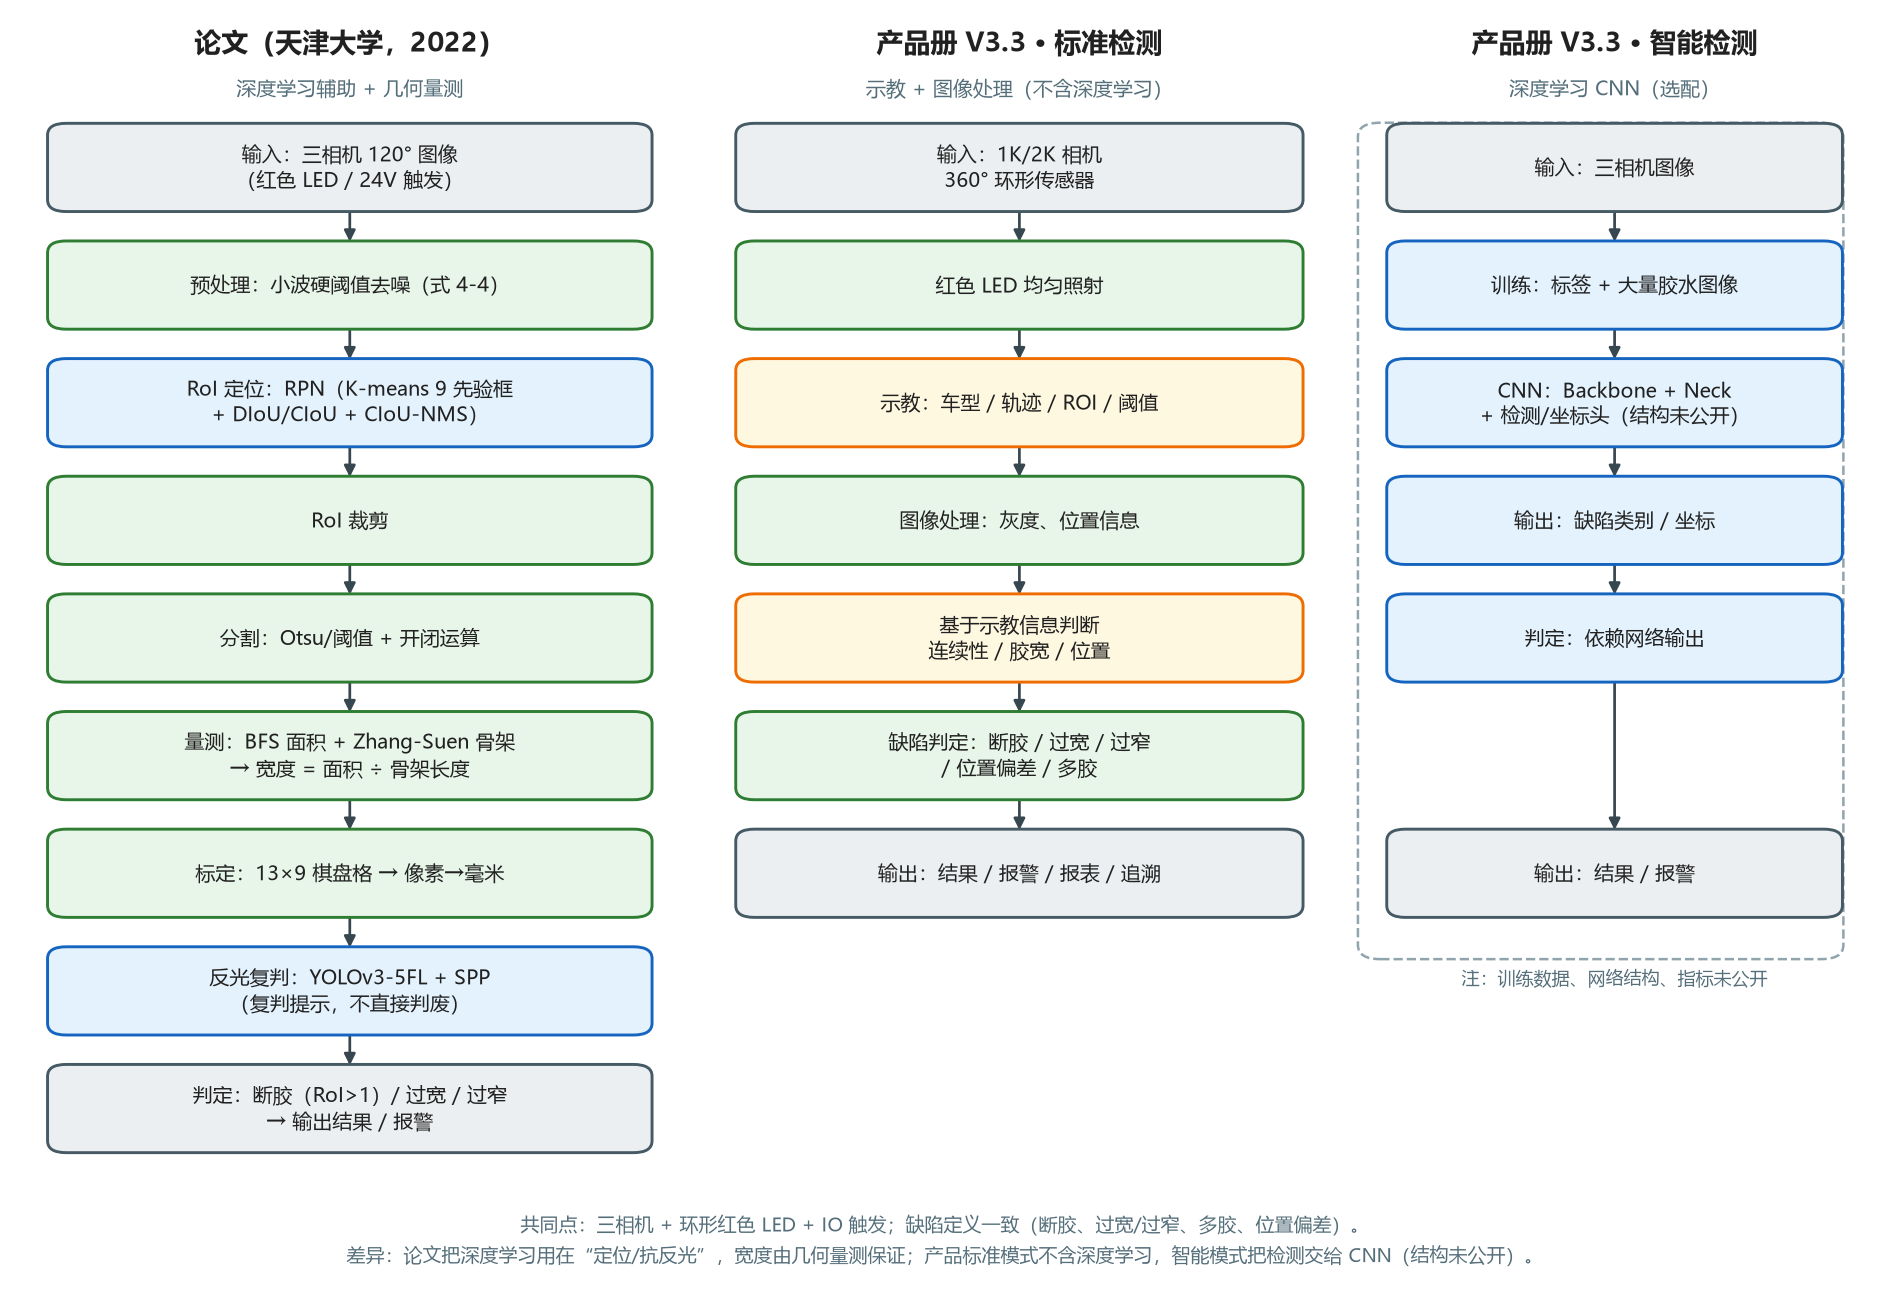
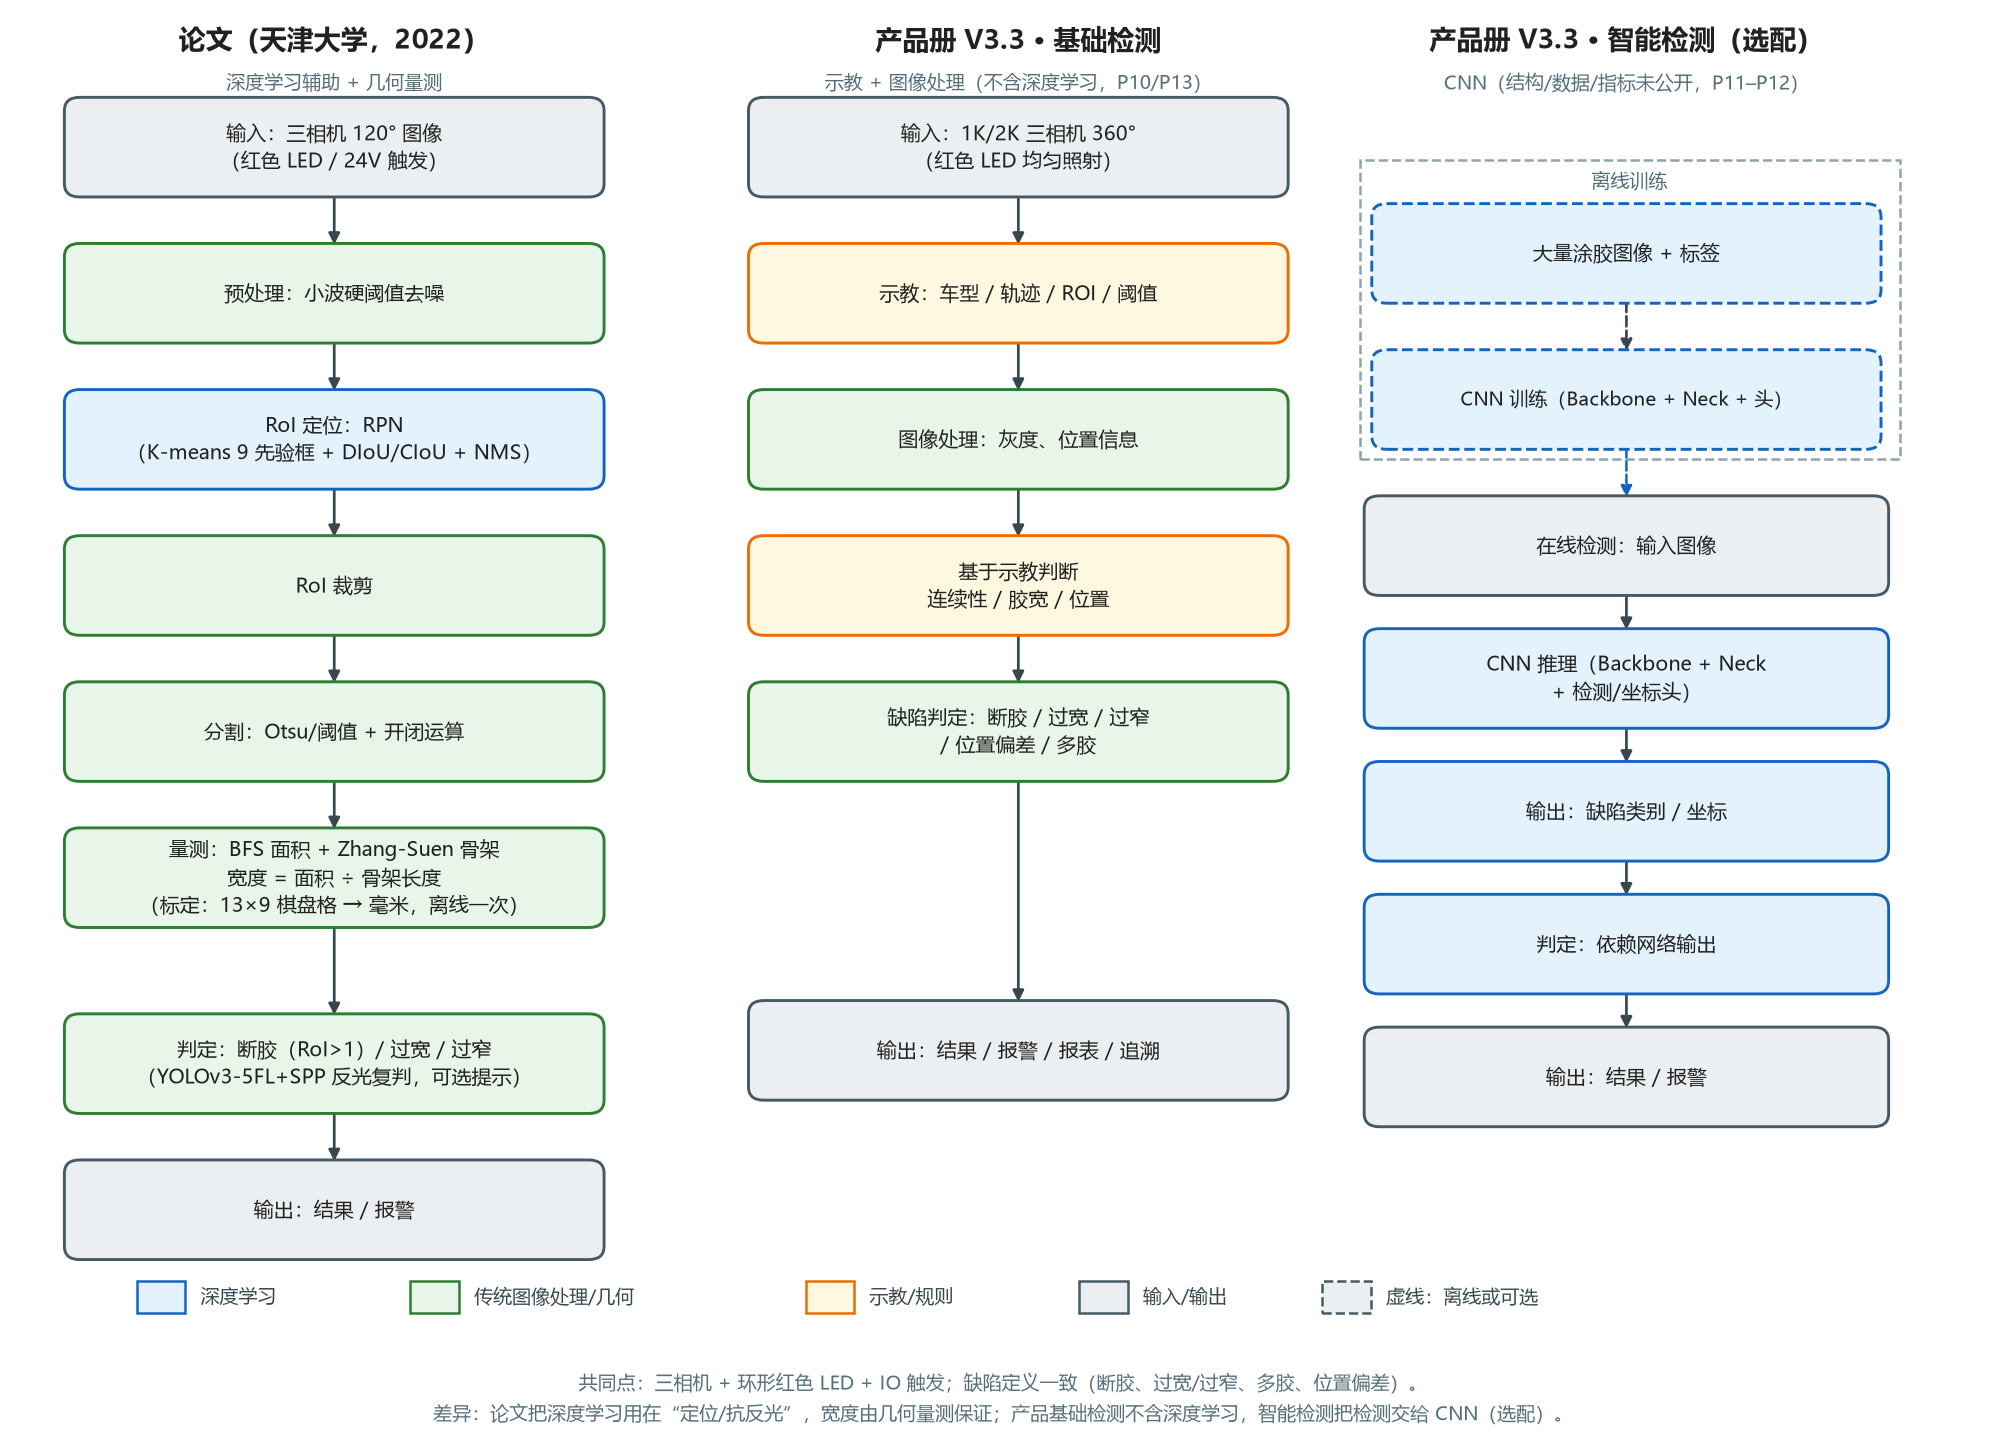
Restructure algorithm comparison diagram and fix product wording
Rename the product basic lane to 基础检测（示教+图像处理, P10/P13）since the brochure only labels 智能检测 as 选配; restructure the intelligent lane into offline training (dashed) feeding online inference, add legend and page references, and update the report wording accordingly.

diff --git a/scripts/make_thesis_product_compare.py b/scripts/make_thesis_product_compare.py
@@ -1,10 +1,11 @@
-"""生成"论文算法 vs 产品算法"对比框图。
+"""生成"论文算法 vs 产品算法"对比框图（v2：结构优化版）。
 
 依据：docs/project/thesis-vs-product-algorithm.md（论文 3.1–5.3；产品册 P9–P17）。
-输出：docs/project/figures/thesis-vs-product-algorithm.png
+产品册原文只写"系统功能——智能检测（选配）"（P11–P12）；P10/P13 描述的
+"示教 + 图像处理"路线本文档简称"基础检测"，不是厂商的官方叫法。
 
-用法：
-    py -3 scripts/make_thesis_product_compare.py
+输出：docs/project/figures/thesis-vs-product-algorithm.png
+用法：py -3 scripts/make_thesis_product_compare.py
 """
 
 from __future__ import annotations
@@ -14,119 +15,126 @@ from pathlib import Path
 import matplotlib
 matplotlib.use("Agg")
 import matplotlib.pyplot as plt
-from matplotlib.patches import FancyArrowPatch, FancyBboxPatch
+from matplotlib.patches import FancyArrowPatch, FancyBboxPatch, Rectangle
 
 plt.rcParams["font.sans-serif"] = ["Microsoft YaHei", "SimHei"]
 plt.rcParams["axes.unicode_minus"] = False
 
 OUT = Path("docs/project/figures/thesis-vs-product-algorithm.png")
 
-# 配色
-DL = ("#e3f2fd", "#1565c0")        # 深度学习相关
+DL = ("#e3f2fd", "#1565c0")        # 深度学习
 TRAD = ("#e8f5e9", "#2e7d32")      # 传统图像处理/几何
 TEACH = ("#fff8e1", "#ef6c00")     # 示教/规则
-IO = ("#eceff1", "#455a64")        # 输入输出/未公开
+IO = ("#eceff1", "#455a64")        # 输入输出
 NOTE = "#546e7a"
 
 
-def box(ax, x, y, w, h, text, kind=TRAD, fontsize=9.4, ls="-"):
+def box(ax, x, y, w, h, text, kind=TRAD, fontsize=9.6, ls="-"):
     face, edge = kind
     ax.add_patch(
         FancyBboxPatch(
-            (x - w / 2, y - h / 2),
-            w,
-            h,
+            (x - w / 2, y - h / 2), w, h,
             boxstyle="round,pad=0.25,rounding_size=1.0",
-            linewidth=1.4,
-            edgecolor=edge,
-            facecolor=face,
-            linestyle=ls,
-            zorder=2,
+            linewidth=1.4, edgecolor=edge, facecolor=face, linestyle=ls, zorder=2,
         )
     )
-    ax.text(x, y, text, ha="center", va="center", fontsize=fontsize, color="#212121", zorder=3, linespacing=1.25)
+    ax.text(x, y, text, ha="center", va="center", fontsize=fontsize,
+            color="#212121", zorder=3, linespacing=1.3)
 
 
-def arrow(ax, x1, y1, x2, y2, ls="-", color="#37474f"):
-    ax.add_patch(
-        FancyArrowPatch(
-            (x1, y1), (x2, y2), arrowstyle="-|>", linestyle=ls, mutation_scale=11,
-            linewidth=1.3, color=color, zorder=1, shrinkA=1, shrinkB=1,
-        )
-    )
+def arrow(ax, x1, y1, x2, y2, ls="-", color="#37474f", lw=1.3):
+    ax.add_patch(FancyArrowPatch(
+        (x1, y1), (x2, y2), arrowstyle="-|>", linestyle=ls, mutation_scale=11,
+        linewidth=lw, color=color, zorder=1, shrinkA=1, shrinkB=1,
+    ))
 
 
-def column(ax, cx, w, boxes, color_map):
-    for (y, text, key), next_y in zip(boxes, [b[0] for b in boxes[1:]] + [None]):
-        box(ax, cx, y, w, 7.0, text, color_map[key] if not isinstance(key, tuple) else key)
-        if next_y is not None:
-            arrow(ax, cx, y - 3.5, cx, next_y + 3.5)
+def flow(ax, cx, w, items, colors, h=7.0):
+    """垂直流：items = [(y, text, key)]。"""
+    for (y, text, key) in items:
+        box(ax, cx, y, w, h, text, colors[key] if isinstance(key, str) else key)
+    ys = [it[0] for it in items]
+    for a, b in zip(ys, ys[1:]):
+        arrow(ax, cx, a - h / 2, cx, b + h / 2)
 
 
 def main() -> int:
-    fig, ax = plt.subplots(figsize=(16, 11), dpi=150)
-    ax.set_xlim(0, 100)
-    ax.set_ylim(-8, 100)
+    fig, ax = plt.subplots(figsize=(17, 11.5), dpi=150)
+    ax.set_xlim(0, 130)
+    ax.set_ylim(0, 100)
     ax.axis("off")
 
-    # 列标题
-    for cx, title, sub in [
-        (18, "论文（天津大学，2022）", "深度学习辅助 + 几何量测"),
-        (54, "产品册 V3.3 · 标准检测", "示教 + 图像处理（不含深度学习）"),
-        (86, "产品册 V3.3 · 智能检测", "深度学习 CNN（选配）"),
-    ]:
-        ax.text(cx, 97.5, title, ha="center", va="center", fontsize=13, weight="bold", color="#212121")
-        ax.text(cx, 93.6, sub, ha="center", va="center", fontsize=9.5, color=NOTE)
+    title_y, sub_y = 98.0, 94.8
+    tips = [
+        (21, "论文（天津大学，2022）", "深度学习辅助 + 几何量测"),
+        (66, "产品册 V3.3 · 基础检测", "示教 + 图像处理（不含深度学习，P10/P13）"),
+        (106, "产品册 V3.3 · 智能检测（选配）", "CNN（结构/数据/指标未公开，P11–P12）"),
+    ]
+    for x, title, sub in tips:
+        ax.text(x, title_y, title, ha="center", va="center", fontsize=13, weight="bold", color="#212121")
+        ax.text(x, sub_y, sub, ha="center", va="center", fontsize=9.2, color=NOTE)
 
-    left = [
-        (87, "输入：三相机 120° 图像\n（红色 LED / 24V 触发）", "io"),
-        (77, "预处理：小波硬阈值去噪（式 4-4）", "trad"),
-        (67, "RoI 定位：RPN（K-means 9 先验框\n+ DIoU/CIoU + CIoU-NMS）", "dl"),
+    colors = {"io": IO, "trad": TRAD, "dl": DL, "teach": TEACH, "note": IO}
+
+    # ---------- 论文 ----------
+    paper = [
+        (90, "输入：三相机 120° 图像\n（红色 LED / 24V 触发）", "io"),
+        (79, "预处理：小波硬阈值去噪", "trad"),
+        (68, "RoI 定位：RPN\n（K-means 9 先验框 + DIoU/CIoU + NMS）", "dl"),
         (57, "RoI 裁剪", "trad"),
-        (47, "分割：Otsu/阈值 + 开闭运算", "trad"),
-        (37, "量测：BFS 面积 + Zhang-Suen 骨架\n→ 宽度 = 面积 ÷ 骨架长度", "trad"),
-        (27, "标定：13×9 棋盘格 → 像素→毫米", "trad"),
-        (17, "反光复判：YOLOv3-5FL + SPP\n（复判提示，不直接判废）", "dl"),
-        (7, "判定：断胶（RoI>1）/ 过宽 / 过窄\n→ 输出结果 / 报警", "io"),
+        (46, "分割：Otsu/阈值 + 开闭运算", "trad"),
+        (35, "量测：BFS 面积 + Zhang-Suen 骨架\n宽度 = 面积 ÷ 骨架长度\n（标定：13×9 棋盘格 → 毫米，离线一次）", "trad"),
+        (21, "判定：断胶（RoI>1）/ 过宽 / 过窄\n（YOLOv3-5FL+SPP 反光复判，可选提示）", "trad"),
+        (10, "输出：结果 / 报警", "io"),
     ]
-    mid = [
-        (87, "输入：1K/2K 相机\n360° 环形传感器", "io"),
-        (77, "红色 LED 均匀照射", "trad"),
-        (67, "示教：车型 / 轨迹 / ROI / 阈值", "teach"),
-        (57, "图像处理：灰度、位置信息", "trad"),
-        (47, "基于示教信息判断\n连续性 / 胶宽 / 位置", "teach"),
-        (37, "缺陷判定：断胶 / 过宽 / 过窄\n/ 位置偏差 / 多胶", "trad"),
-        (27, "输出：结果 / 报警 / 报表 / 追溯", "io"),
+    flow(ax, 21, 35, paper, colors)
+
+    # ---------- 产品·基础检测 ----------
+    basic = [
+        (90, "输入：1K/2K 三相机 360°\n（红色 LED 均匀照射）", "io"),
+        (79, "示教：车型 / 轨迹 / ROI / 阈值", "teach"),
+        (68, "图像处理：灰度、位置信息", "trad"),
+        (57, "基于示教判断\n连续性 / 胶宽 / 位置", "teach"),
+        (46, "缺陷判定：断胶 / 过宽 / 过窄\n/ 位置偏差 / 多胶", "trad"),
+        (22, "输出：结果 / 报警 / 报表 / 追溯", "io"),
     ]
-    right = [
-        (87, "输入：三相机图像", "io"),
-        (77, "训练：标签 + 大量胶水图像", "dl"),
-        (67, "CNN：Backbone + Neck\n+ 检测/坐标头（结构未公开）", "dl"),
-        (57, "输出：缺陷类别 / 坐标", "dl"),
-        (47, "判定：依赖网络输出", "dl"),
-        (27, "输出：结果 / 报警", "io"),
+    flow(ax, 66, 35, basic, colors)
+
+    # ---------- 产品·智能检测（离线训练 + 在线检测） ----------
+    ax.add_patch(Rectangle((88.5, 66.5), 35.5, 22.5, linewidth=1.2, edgecolor="#90a4ae",
+                           facecolor="none", linestyle="--", zorder=0))
+    ax.text(106.2, 87.4, "离线训练", ha="center", va="center", fontsize=9, color=NOTE)
+    box(ax, 106, 82, 33, 7, "大量涂胶图像 + 标签", DL, 9.6, ls="--")
+    arrow(ax, 106, 78.5, 106, 74.5, ls="--")
+    box(ax, 106, 71, 33, 7, "CNN 训练（Backbone + Neck + 头）", DL, 9.2, ls="--")
+
+    detect = [
+        (60, "在线检测：输入图像", "io"),
+        (50, "CNN 推理（Backbone + Neck\n+ 检测/坐标头）", "dl"),
+        (40, "输出：缺陷类别 / 坐标", "dl"),
+        (30, "判定：依赖网络输出", "dl"),
+        (20, "输出：结果 / 报警", "io"),
     ]
+    flow(ax, 106, 34, detect, colors)
+    arrow(ax, 106, 67.5, 106, 63.5, ls="--", color="#1565c0", lw=1.2)
 
-    colors = {"io": IO, "trad": TRAD, "dl": DL, "teach": TEACH}
-    column(ax, 18, 32, left, colors)
-    column(ax, 54, 30, mid, colors)
+    # 图例
+    legend = [
+        (8, "深度学习", DL, "-"),
+        (26, "传统图像处理/几何", TRAD, "-"),
+        (52, "示教/规则", TEACH, "-"),
+        (70, "输入/输出", IO, "-"),
+        (86, "虚线：离线或可选", IO, "--"),
+    ]
+    for x, label, (face, edge), ls in legend:
+        ax.add_patch(Rectangle((x, 2.2), 3.2, 2.4, facecolor=face, edgecolor=edge, linewidth=1.2, linestyle=ls))
+        ax.text(x + 4.2, 3.4, label, fontsize=9, va="center", color="#37474f")
 
-    # 智能检测列：虚线框表示"选配"
-    ax.add_patch(
-        FancyBboxPatch(
-            (72.5, 20), 25.5, 70.5, boxstyle="round,pad=0.3,rounding_size=1.2",
-            linewidth=1.2, edgecolor="#90a4ae", facecolor="none", linestyle="--", zorder=0,
-        )
-    )
-    column(ax, 86, 24, right, colors)
-
-    ax.text(86, 18.0, "注：训练数据、网络结构、指标未公开", ha="center", va="center", fontsize=8.8, color=NOTE)
-
-    # 差异/共同点注释
+    # 共同点/差异
     ax.text(
-        50, -4.2,
+        65, -4.2,
         "共同点：三相机 + 环形红色 LED + IO 触发；缺陷定义一致（断胶、过宽/过窄、多胶、位置偏差）。\n"
-        "差异：论文把深度学习用在“定位/抗反光”，宽度由几何量测保证；产品标准模式不含深度学习，智能模式把检测交给 CNN（结构未公开）。",
+        "差异：论文把深度学习用在“定位/抗反光”，宽度由几何量测保证；产品基础检测不含深度学习，智能检测把检测交给 CNN（选配）。",
         ha="center", va="center", fontsize=9.2, color=NOTE, linespacing=1.5,
     )
 

diff --git a/docs/project/camera-infer-verification-2026-11-22.md b/docs/project/camera-infer-verification-2026-11-22.md
@@ -55,8 +55,8 @@
 ![论文算法与产品算法主要流程对比](figures/thesis-vs-product-algorithm.png)
 
 - **论文**：深度学习只用于"定位（RPN）与抗反光（YOLOv3-5FL）"，宽度由几何量测保证（面积 ÷ 骨架长度 × 标定），误差可溯源；
-- **产品标准模式**：示教 + 图像处理 + 规则判断，不含深度学习；
-- **产品智能模式（选配）**：CNN 端到端（Backbone + Neck + 检测/坐标头），训练数据、结构与指标未公开。
+- **产品基础检测**（P10/P13）：示教 + 图像处理 + 规则判断，不含深度学习（PDF 未用“标准检测”这一叫法）；
+- **产品智能检测（选配，P11–P12）**：CNN 端到端（Backbone + Neck + 检测/坐标头），训练数据、结构与指标未公开。
 
 本项目当前以**论文路线**为主线（几何量测 + 深度学习辅助），产品册用于需求对标（示教/配方、双报警线、报表追溯等）。
 
